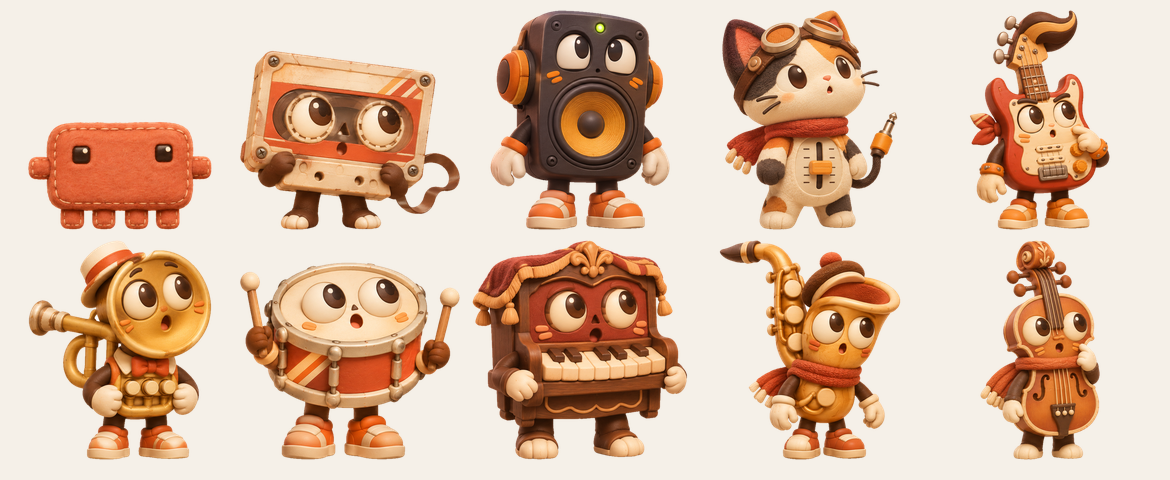
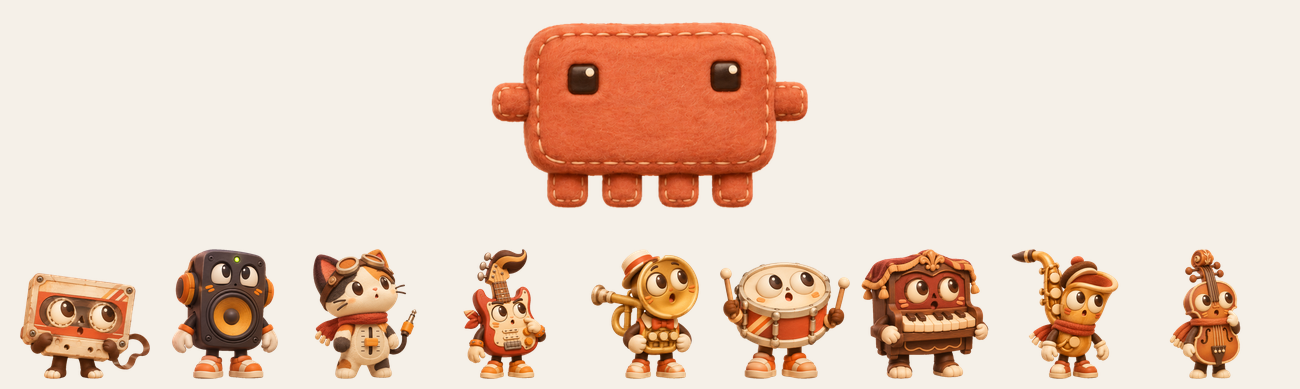
README: Claw'd front and centre
New hero with Claw'd and the Sparkle House, Claw'd states, day and night house,
and the other nine characters moved to a 'Not a Claw'd person?' section.

diff --git a/README.md b/README.md
@@ -1,20 +1,20 @@
-# Mix Keeper
+# Mix Keeper — a plush Claw'd for your Mac
 
-A little creature (by default a plush Claw'd) that lives at the corner of your Mac and tells you when
-**Claude Code** finishes or needs your permission. It opens its door, dashes to your
-cursor with a card, and one click takes you back to the right session.
+**Claw'd lives in a little Sparkle House in the corner of your screen.** When Claude Code
+finishes, or needs your permission, it opens the door, dashes to your cursor with a card,
+and one click takes you back to the right session. Then it walks home and shuts the door.
 
-![The ten characters](docs/characters.png)
+![Claw'd with a card, next to its Sparkle House](docs/hero.png)
 
 [繁體中文](README.zh-Hant.md)
 
-## What it does
+## What Claw'd does
 
-| When | It |
+| When | Claw'd |
 |---|---|
 | A Claude Code turn finishes (longer than 15 seconds) | runs to your cursor with a **Finished** card |
 | Claude Code needs your permission | runs over with a **Needs your permission** card and waits |
-| You click the card | jumps back to that session and goes home |
+| You click the card | jumps you back to that session, then walks home |
 | You answer in that session | the card goes away by itself |
 | Nothing is happening | strolls around its house, naps at the door, goes inside to rest |
 
@@ -32,27 +32,39 @@ Anything else brings the Claude app to the front.
 Background runs (`claude -p` scripts, scheduled tasks) never get a card, so your
 automations don't keep summoning it.
 
-## Its home
+## Claw'd, up close
 
-![Home by day and by night](docs/home-day-night.png)
+![Claw'd standing, walking, napping and holding a card](docs/clawd-states.png)
 
-- Claw'd lives in the **Sparkle House**; the other characters live in a tiny recording-studio
-  cottage. Drag the house anywhere; the spot is remembered.
-- When the work is done the pet walks home, goes in and closes the door. When something
+A soft felt plush with stitched edges. It walks on its four little legs and kicks up dust
+clouds as it goes, naps with its eyes closed into two lines, and lifts a card when
+something needs you.
+
+## The Sparkle House
+
+![The Sparkle House by day and by night](docs/home-day-night.png)
+
+- Claw'd's home. Drag it anywhere; the spot is remembered.
+- When the work is done Claw'd walks home, goes in and closes the door. When something
   needs you, the door opens and it dashes out.
 - Day and night follow the real sunrise and sunset where you are. Location comes from
   your Mac's time zone (the city in the system time-zone table), so there is no location
-  permission prompt.
-- It kicks up little dust clouds when it walks and when it dashes.
+  permission prompt. At night the windows glow.
 
-![Walking](docs/tape-states.png)
+## Not a Claw'd person?
+
+![Claw'd and nine other characters](docs/characters.png)
+
+Swap it for one of nine others in the menu bar: a tape, a speaker, a fader cat, a guitar,
+a trumpet, a snare drum, a piano, a sax and a cello. They live in a tiny recording-studio
+cottage instead.
 
 ## Playing with it
 
 - Drag the pet anywhere. Rub the mouse over it for hearts, click it to make it hop.
 - Click the house to call it outside.
 - Menu bar **◉** shows how many cards are waiting, and has **Bring Here**, **Go Home**,
-  ten characters (Claw'd plush by default), and **Settings**: Open at Login, Move Home to Corner, language
+  ten characters (Claw'd by default), and **Settings**: Open at Login, Move Home to Corner, language
   (Match System, 繁體中文, English).
 
 ## Install

diff --git a/README.zh-Hant.md b/README.zh-Hant.md
@@ -1,15 +1,15 @@
-# 混音守門員 Mix Keeper
+# 混音守門員 Mix Keeper — 住在你 Mac 上的 Claw'd 絨毛玩偶
 
-住在你 Mac 角落的小傢伙（預設是 Claw'd 絨毛玩偶）。**Claude Code** 跑完、或需要你按許可時，它會開門
-衝到你的滑鼠旁邊，拿一張卡片給你，點一下就回到那個 session。
+**Claw'd 住在螢幕角落的「星芒之家」。** Claude Code 跑完、或需要你按許可時，它會開門
+衝到你的滑鼠旁邊，拿一張卡片給你，點一下就回到那個 session。事情做完，它自己走回家、關門。
 
-![十個角色](docs/characters.png)
+![Claw'd 拿著卡片站在星芒之家旁](docs/hero-zh.png)
 
 [English](README.md)
 
-## 它會做什麼
+## Claw'd 會做什麼
 
-| 什麼時候 | 它會 |
+| 什麼時候 | Claw'd 會 |
 |---|---|
 | Claude Code 跑完一個回合（超過 15 秒的） | 帶著「跑完了」卡片衝到游標旁 |
 | Claude Code 需要你按許可 | 帶著「需要你按許可」卡片衝過來，等你處理 |
@@ -29,23 +29,31 @@
 
 背景執行（`claude -p` 腳本、排程任務）不會出卡片，所以自動化跑再多也不會一直把它叫出來。
 
-## 它的家
+## Claw'd 近看
 
-![白天和晚上的家](docs/home-day-night.png)
+![Claw'd 站著、走路、打瞌睡、拿卡片](docs/clawd-states.png)
 
-- Claw'd 住**星芒之家**，其他角色住小錄音室。房子可以拖到任何地方，位置會記住。
-- 事情處理完，它會走回家、進門、關門；有事時開門衝出來。
-- 白天晚上跟著你所在地的真實日出日落變化。所在地用 Mac 的時區對應城市座標，
-  不會跳出定位授權。
-- 走路和衝刺時，腳下會揚起小小的塵土。
+毛氈縫線的絨毛玩偶。用四隻小腳走路，走過的地方會揚起塵土；打瞌睡時眼睛變兩條線；有事要你處理時舉起卡片。
 
-![走路](docs/tape-states.png)
+## 星芒之家
+
+![白天和晚上的星芒之家](docs/home-day-night.png)
+
+- Claw'd 的家，可以拖到任何地方，位置會記住。
+- 事情處理完，Claw'd 走回家、進門、關門；有事時開門衝出來。
+- 白天晚上跟著你所在地的真實日出日落變化，晚上窗戶會亮燈。所在地用 Mac 的時區對應城市座標，不會跳出定位授權。
+
+## 不想要 Claw'd？
+
+![Claw'd 和另外九個角色](docs/characters.png)
+
+在選單列換成另外九個角色之一：磁帶、喇叭、推桿貓、電吉他、小號、小鼓、鋼琴、薩克斯、大提琴。它們住在小錄音室裡。
 
 ## 怎麼玩
 
 - 可以拖它；滑鼠在它身上來回摸會冒愛心，點一下會跳。
 - 點房子會叫它出來。
-- 選單列的 **◉** 會顯示幾張卡片在等你，裡面有「叫過來」「回家」、十個角色（預設 Claw'd 玩偶），
+- 選單列的 **◉** 會顯示幾張卡片在等你，裡面有「叫過來」「回家」、十個角色（預設 Claw'd），
   以及「設定」：開機自動開啟、把家搬回右下角、語言（跟隨系統、繁體中文、English）。
 
 ## 安裝
